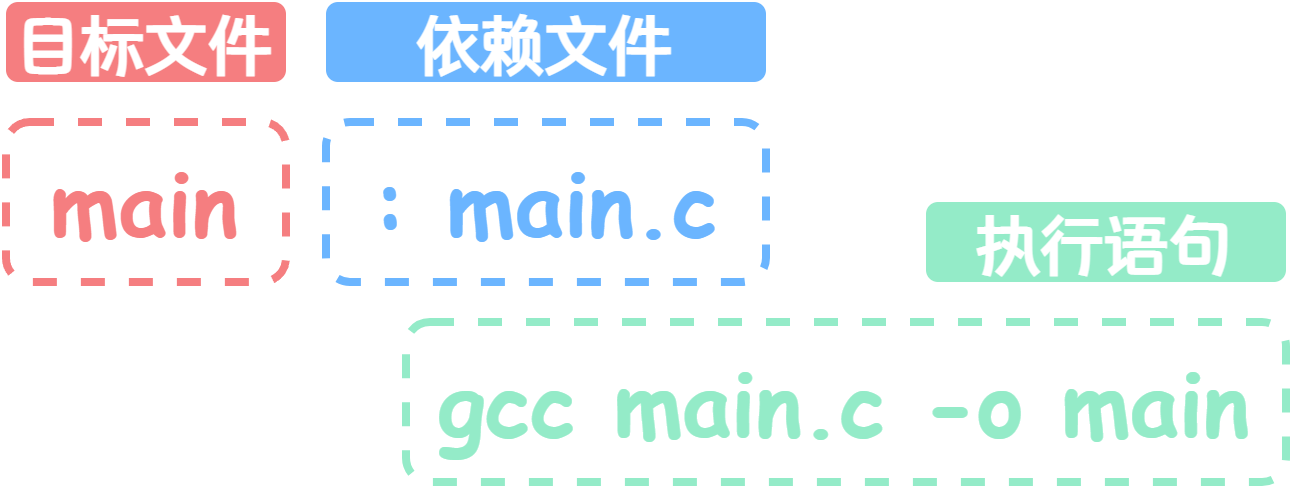
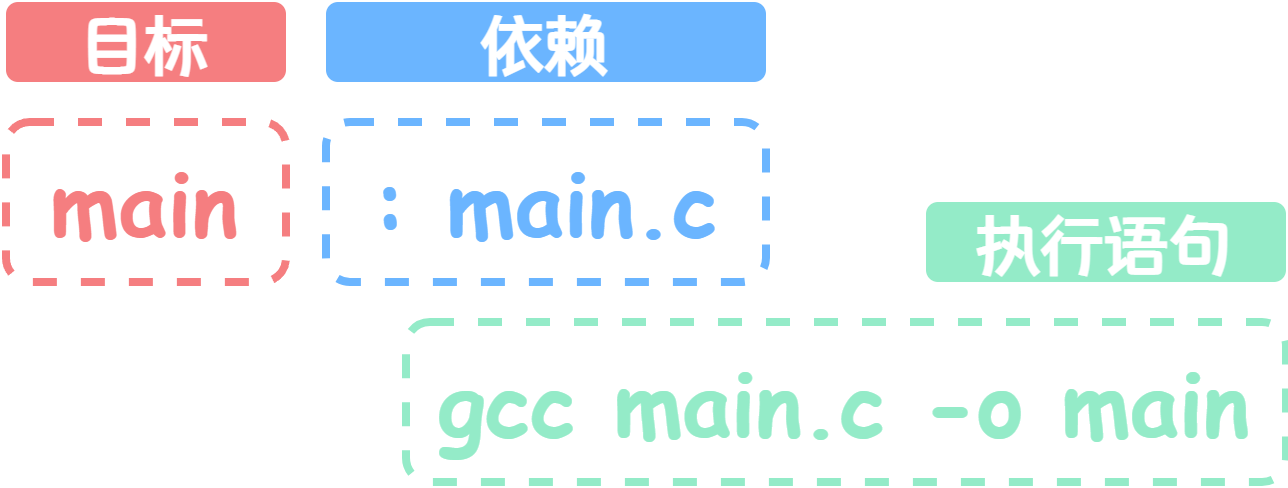
更新Makefile入门指北         -- 修改预编译为预处理。         -- 调整部分内容顺序。         -- 优化部分语句。         -- 调整章节命名。         -- 更新变量和通配符和wildcard函数。 新增代办：         -- 从汇编的角度分析文章中的思考题。

diff --git a/C Program/Makefile/Makefile-入门指北.md b/C Program/Makefile/Makefile-入门指北.md
@@ -1,10 +1,10 @@
 # 前言
 
-C语言程序从代码到可执行文件（\*.exe）需要经过预编译、编译、汇编和链接这几个步骤。每当源文件（\*.c）或源文件所包含的头文件（\*.h）做出修改后，我们都需要对这些源文件重新执行上述几个步骤，以使修改效果显现在可执行文件中。
+C语言程序从代码到可执行文件（\*.exe）需要经过预处理、编译、汇编和链接这几个步骤。每当修改源文件（\*.c）或源文件所包含的头文件（\*.h）后，我们都需要重新执行上述几个步骤，以得到修改后的程序。
 
-> 通常将预编译、编译和汇编这三个步骤统称为编译。
+> 通常将预处理、编译和汇编这三个步骤统称为编译。
 
-一个项目中通常有多个源文件，如果只修改其中一个源文件，就对所有源文件重新执行编译、链接步骤，就太浪费时间了。因此十分有必要引入Makefile工具：Makefile工具可以根据文件依赖，自动找出那些需要重新编译和链接的源文件，并对它们执行相应的动作。
+一个项目通常有多个源文件，如果只修改其中一个，就对所有源文件重新执行编译、链接步骤，就太浪费时间了。因此十分有必要引入 Makefile 工具：Makefile 工具可以根据文件依赖，自动找出那些需要重新编译和链接的源文件，并对它们执行相应的动作。
 
 ![编译链接过程](.\编译链接过程.png)
 
@@ -23,19 +23,20 @@ Release:        22.04
 Codename:       jammy
 ```
 
-可以看到，我使用Ubuntu系统，且系统发行版本是22.04。如果你是Windows系统，则可以在`启用或关闭 Windows 功能`中点击开启`适用于 Linux 的 Windows 子系统`，并在微软商店中下载和安装Ubuntu系统，以获得与我一致的代码编写环境。
+可以看到，我使用Ubuntu系统，且系统发行版本是22.04。如果你是Windows系统，则可以在`启用或关闭 Windows 功能`中点击开启`适用于 Linux 的 Windows 子系统`，并在微软商店中下载和安装Ubuntu系统，以获得与我一致的代码编写环境。具体步骤可以参考：[安装 WSL](https://learn.microsoft.com/zh-cn/windows/wsl/install)。
+
+相比 `vim` 如果你更熟悉 `VSCode` 的操作，则可以参考：[开始通过 WSL 使用 VS Code](https://learn.microsoft.com/zh-cn/windows/wsl/tutorials/wsl-vscode) 来搭建自己熟悉的代码编写环境。
 
 如果你在阅读或实践过程中遇到任何问题，欢迎在评论区中留下你的疑问，我们会尽力尝试解答。
 
 # 从代码编译开始
 
-在开始编写Makefile前，我们先写一段简单的代码，并尝试使用编译工具链将代码变为可执行文件。
+在开始编写 Makefile 前，我们先写一段简单的代码，并尝试使用编译工具链将代码变为可执行文件。
 
 ## 编写简单的代码
 
-**"main.c"**
-
 ```c
+/* main.c */
 #include <stdio.h>
 
 int main(void)
@@ -49,6 +50,8 @@ int main(void)
 
 编辑完文件后，回到终端，使用编译工具链将代码变为可执行文件：
 
+> 如果你在执行 `gcc main.c -o main` 时遇到问题，很有可能是没有安装 `gcc` 导致的，在终端中输入 `sudo apt-get install build-essential` 以安装所需的编译工具。
+
 ```shell
 gee@JiPing_Desktop:~/workspace/example$ vim main.c
 gee@JiPing_Desktop:~/workspace/example$ gcc main.c -o main
@@ -58,11 +61,9 @@ gee@JiPing_Desktop:~/workspace/example$ ./main
 Hello from main!
 ```
 
-可以看到，我们顺利的得到了可执行文件，并且执行结果也符合预期。
+可以看到，我们顺利得到了可执行文件，并且执行结果也符合预期。
 
-> 如果你在执行 `gcc main.c -o main` 时遇到问题，很有可能是没有安装 `gcc` 导致的，在终端中输入 `sudo apt-get install build-essential` 以安装所需的编译工具。
-
-上面所执行的几条命令中，`gcc main.c -o main` 这条命令负责调用编译工具链，将源文件 `main.c` 编译、链接为可执行文件 `main`。这里的GCC(GNU Compiler Collection)就是上文中提及的编译工具链，它是预编译、编译、汇编、链接所使用到的各种工具的集合，它们彼此搭配协作，才最终得到我们所需的可执行文件。
+上面所执行的几条命令中，`gcc main.c -o main` 这条命令负责调用编译工具链，将源文件 `main.c` 编译、链接为可执行文件 `main`。这里的GCC(GNU Compiler Collection)就是上文中提及的编译工具链，它是预处理、编译、汇编、链接所使用到的各种工具的集合，它们彼此搭配协作，才最终得到我们所需的可执行文件。
 
 ![编写简单的代码并得到可执行文件](.\编写简单的代码并得到可执行文件.png)
 
@@ -74,9 +75,8 @@ Hello from main!
 
 ## 编写Makefile并执行make
 
-**"Makefile"**
-
 ```makefile
+# Makefile
 main : main.c
         gcc main.c -o main
 ```
@@ -89,13 +89,12 @@ gee@JiPing_Desktop:~/workspace/example$ make
 make: 'main' is up to date.
 ```
 
-可以看到Makefile给出了它的处理结果 `make: 'main' is up to date.`，意思是 `main` 已经是最新的了，无需执行任何操作。此时我们的 `main.c` 没有做任何修改，也就是说即使重新编译、链接得到一个新的 `main`，它与旧的 `main` 也不会存在任何的不同，所以Makefile没有执行任何的步骤。
+可以看到 Makefile 给出了它的处理结果 `make: 'main' is up to date.`，意思是 `main` 已经是最新的了，无需执行任何操作。此时我们的 `main.c` 没有做任何修改，也就是说即使重新编译、链接得到一个新的 `main`，它与旧的 `main` 也不会存在任何的不同，所以Makefile没有执行任何的步骤。
 
 尝试修改 `main.c` 再执行 `make`，看看这次的结果会怎样：
 
-**"main.c"**
-
 ```c
+/* main.c */
 #include <stdio.h>
 
 int main(void)
@@ -119,13 +118,13 @@ Hello from new main!
 
 ## Makefile三要素
 
-那么问题就来了，Makefile中的两行语句分别是什么意思呢？拆解来看，两行语句可以分为三部分，分别是目标文件、依赖文件和执行语句：
+那么问题就来了，Makefile中的两行语句分别是什么意思呢？拆解来看，两行语句可以分为三部分，分别是目标（target）、依赖（prerequisite）和执行语句（recipe）：
+
+> 延伸思考：目标、依赖和执行语句，三者在Makefile中是否缺一不可？在不修改源文件的前提下尝试修改目标，再执行make时会得到怎样的结果？
 
 ![简单Makefile语句解析](.\简单Makefile语句解析.png)
 
-> 延伸思考：目标文件、依赖文件和执行语句，三者在Makefile中是否缺一不可？尝试修改目标文件命名再执行make，会得到怎样的结果？
-
-上面的例子中，可执行文件 `main` 就是我们想要得到的目标文件，而 `main` 的生成依赖于 `main.c`，所以将 `main.c` 填写在依赖文件的位置。在发现目标文件不存在，或依赖文件有所修改后，Makefile就会执行下方的执行语句，其任务通常是生成目标文件。
+上面的例子中，可执行文件 `main` 就是我们想要得到的目标，而 `main` 的生成依赖于 `main.c`，所以将 `main.c` 填写在依赖的位置。在发现目标文件不存在，或依赖的文件有所修改后，Makefile 就会执行下方的执行语句，其任务通常是生成目标文件。
 
 > [**延伸阅读**](https://www.gnu.org/software/make/manual/make.html#Rule-Introduction)
 >
@@ -137,20 +136,20 @@ Hello from new main!
 >
 > A *recipe* is an action that `make` carries out. A recipe may have more than one command, either on the same line or each on its own line. **Please note:** you need to put a tab character at the beginning of every recipe line!
 
-## 变量和通配符
+## 当增加源文件和修改源文件名称
 
-回看已经写好的Makefile，会发现其中的内容都是有具体指向的：`main`、`main.c`。试想这样一个场景：我们在文件夹中添加新的源文件 `bar.c`，并将 `main.c` 重命名为 `entry.c`，同时在 `entry.c` 中调用 `bar.c` 中定义的函数，这时再执行 `make` 会得到怎样的结果？
+回看已经写好的Makefile，会发现其中的内容都是有具体指向的：`main`、`main.c`。试想这样一个场景：我们在文件夹中添加新的源文件 `bar.c`，并将 `main.c` 重命名为 `entry.c`，这时再执行 `make` 会得到怎样的结果呢？
 
 > 思考题：在函数 *Print_Progress_Bar* 中，数组 `bar` 的定义和赋值能否由 `char bar[] = PROGRESS_BAR` 改为 `char *bar = PROGRESS_BAR`。为什么？两者有什么不同？
 
-**"bar.c"**
-
 ```c
+/* bar.c */
 #include <stdio.h>
 
 #define PROGRESS_BAR "*************************"
 
-// 输入参数：comp: 完成比例（0% <= comp <= 100%）
+// 输入参数
+// comp: 完成比例（0% ~ 100%）
 void Print_Progress_Bar(float comp)
 {
         char bar[] = PROGRESS_BAR;
@@ -168,9 +167,8 @@ void Print_Progress_Bar(float comp)
 }
 ```
 
-**"entry.c"**
-
 ```c
+/* entry.c */
 #include <stdio.h>
 
 int main(void)
@@ -192,11 +190,10 @@ gee@JiPing_Desktop:~/workspace/example$ make
 make: *** No rule to make target 'main.c', needed by 'main'.  Stop.
 ```
 
-可以看到，`make` 提示“No rule to make target 'main.c', needed by 'main'.”，同时停止继续执行。从提示中我们大致可以猜到，由于找不到依赖文件 `main.c`， `make` 停止了执行。解决问题的办法很简单，根据新的文件命名修改 Makefile 文件（注意gcc命令也要做修改）：
-
-**"Makefile"**
+可以看到，`make` 提示“No rule to make target 'main.c', needed by 'main'.”，并停止了执行。从提示中我们大致可以猜到，由于找不到依赖文件 `main.c`， `make` 停止了执行。解决问题的方法有两种，简单粗暴的做法是：直接根据新的文件命名修改 Makefile 文件（注意gcc命令也要做修改）：
 
 ```makefile
+# Makefile
 main : entry.c bar.c
         gcc entry.c bar.c -o main
 ```
@@ -212,12 +209,77 @@ Hello from new main!
 |********                 |
 ```
 
-这一次 `make` 命令没有再报错，程序执行结果也符合预期。
+这一次 `make` 命令没有再报错。
 
-思考一下，如果 Makefile 继续采用当前的写法，每当添加新的源文件或修改已有源文件名称的时候，都需要我们手动调整 Makefile 文件。当文件数量爆炸多的时候，这样的手动调整显然是十分麻烦的。那有没有什么办法能够解决这个问题，做到以不变应万变呢？这就要介绍接下来的主角：变量和通配符了。
+想象一下，如果我们保持当前的 Makefile 写法，那么之后每次添加源文件，或者修改源文件名称的时候，都需要我们重新修改 Makefile 文件。当文件数量爆炸多的时候，这样的手动调整显然是十分麻烦的。所以我们迫切需要一种更为通用的写法，来免除这些“痛苦”。
+
+## 变量和通配符和wildcard函数
+
+仔细观察源文件的命名 `main.c` 、 `bar.c`，我们会发现它们有着共同的模式（或称为规律）：都以 `.c` 结尾，这意味着可以用这种模式匹配所有源文件，在 Makefile 中我们可以使用 wildcard 函数（wildcard function）来达到这一目的。
+
+### 使用wildcard函数
+
+在 Makefile 中，`$(function arguments)` 的写法用于函数调用， wildcard 函数的使用方法如下：
+
+```makefile
+$(wildcard pattern…)
+```
+
+如果我们想匹配当前目录下的所有源文件，就可以这样写：`$(wildcard *.c)`，其中通配符 `*` 用于匹配任意长度的任何字符，可以是 `main`、`bar`，也可以是其他任何你能想得到的字符组合，后面加上 `.c` 则是要求匹配的字符组合必须以 `.c` 结尾。
+
+当前示例下，`$(wildcard *.c)` 展开后得到的结果就是： `bar.c entry.c`，所以我们的 `Makefile` 文件可以修改为：
+
+```makefile
+# Makefile
+main : $(wildcard *.c)
+        gcc $(wildcard *.c) -o main
+```
+
+修改后保存，再重新执行 `make`，得到的结果与之前一致：（别忘了修改源文件，这里我将进度条进度改为了52% ）
+
+```makefile
+gee@JiPing_Desktop:~/workspace/example$ vim Makefile
+gee@JiPing_Desktop:~/workspace/example$ vim entry.c
+gee@JiPing_Desktop:~/workspace/example$ make
+gcc bar.c entry.c -o main
+gee@JiPing_Desktop:~/workspace/example$ ./main
+Hello from new main!
+|*************            |
+```
+
+### 利用变量
+
+上面的 `Makefile` 还可以再优化一下可读性和效率，我们可以利用变量保存 wildcard 函数展开后的结果。Makefile 中定义变量的形式与C语言类似：`var := value`，调用则和函数调用类似：`$(var)`，所以 `Makefile` 可以进一步修改为：
+
+```makefile
+SRCS := $(wildcard *.c)
+
+main : $(SRCS)
+        gcc $(SRCS) -o main
+```
+
+相比上面的 `Makefile`，进一步修改后的 `Makefile` 减少了一次函数调用，并且增加了可读性。
+
+## 不同的赋值符号
+
+# 动手写进阶的Makefile
+
+## 分析编译过程
+
+## 应对复杂的目录结构
+
+# 丰富Makefile的功能
+
+## 伪目标
 
 # 参考链接
 
 - [如何在 Ubuntu 20.04 上安装 GCC(build-essential)](https://developer.aliyun.com/article/766146)
-
 - [linux - What's the meaning of gcc '-c' and gcc '-o'?](https://stackoverflow.com/questions/43164707/whats-the-meaning-of-gcc-c-and-gcc-o)
+- [GNU make](https://www.gnu.org/software/make/manual/make.html#Rule-Introduction)
+- [make - What does % symbol in Makefile mean](https://unix.stackexchange.com/questions/346322/what-does-symbol-in-makefile-mean)
+- [What do the makefile symbols $@ and $< mean?](https://stackoverflow.com/questions/3220277/what-do-the-makefile-symbols-and-mean)
+
+> 文章名：					《写给初学者的Makefile入门指南》
+> 作者：						吉平.集
+> 写作日期：				2023.3.6 ~ 2023.3.25
